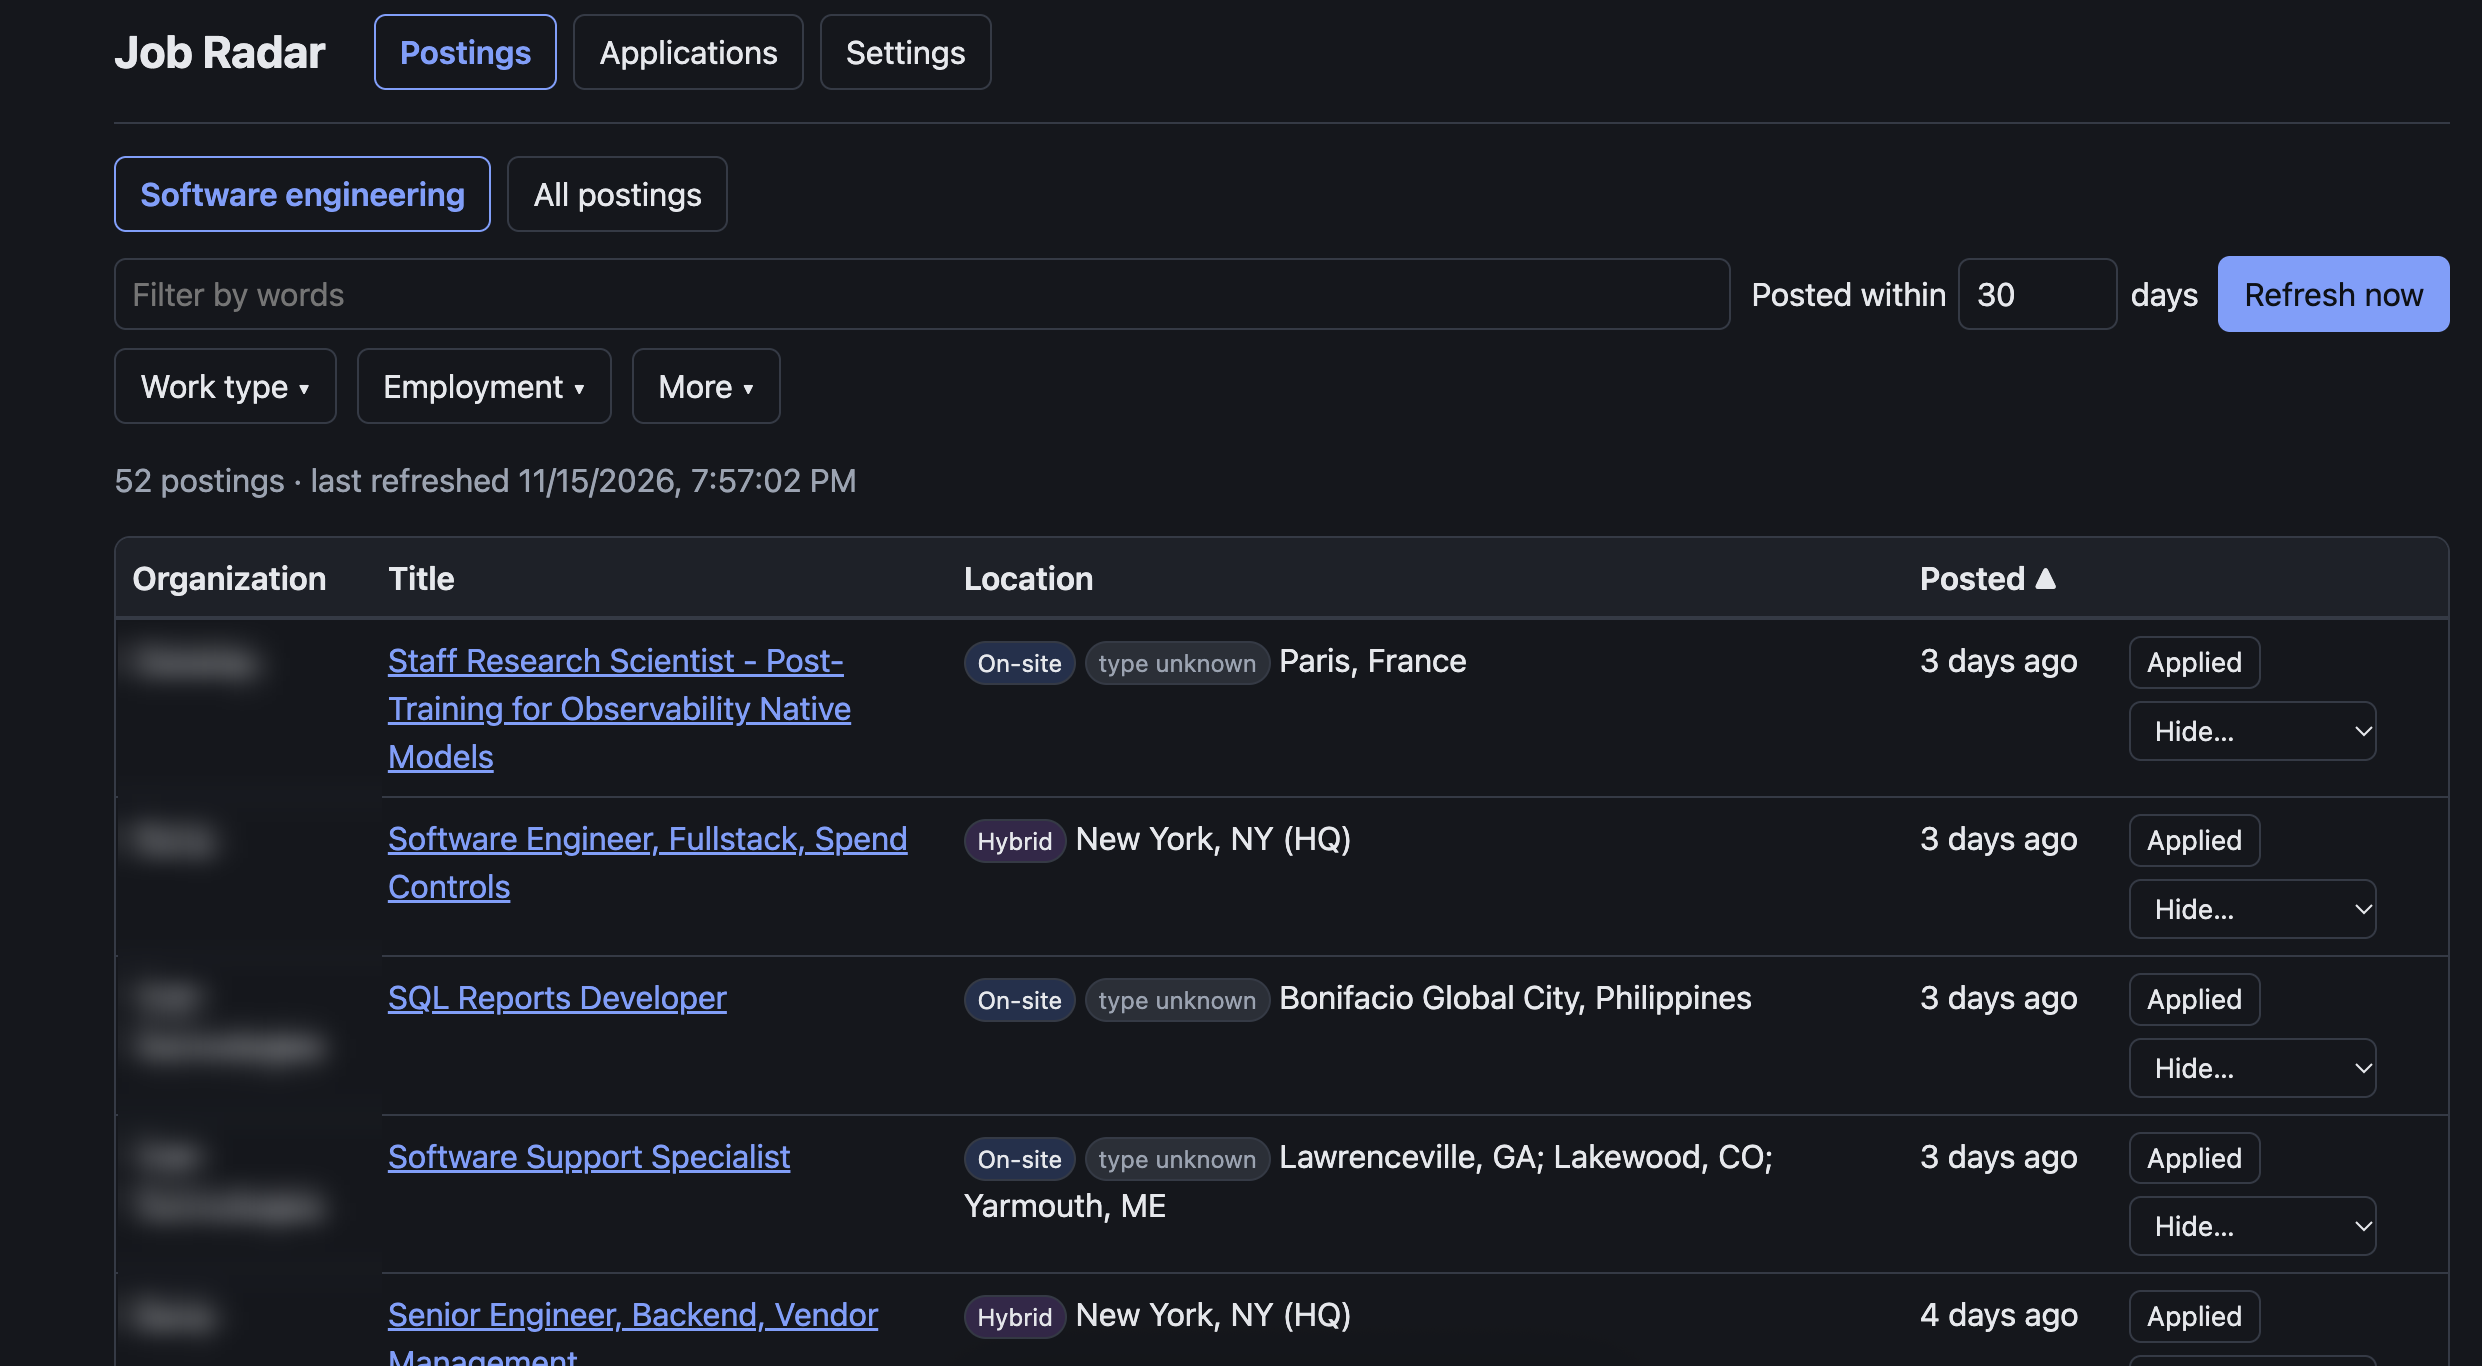
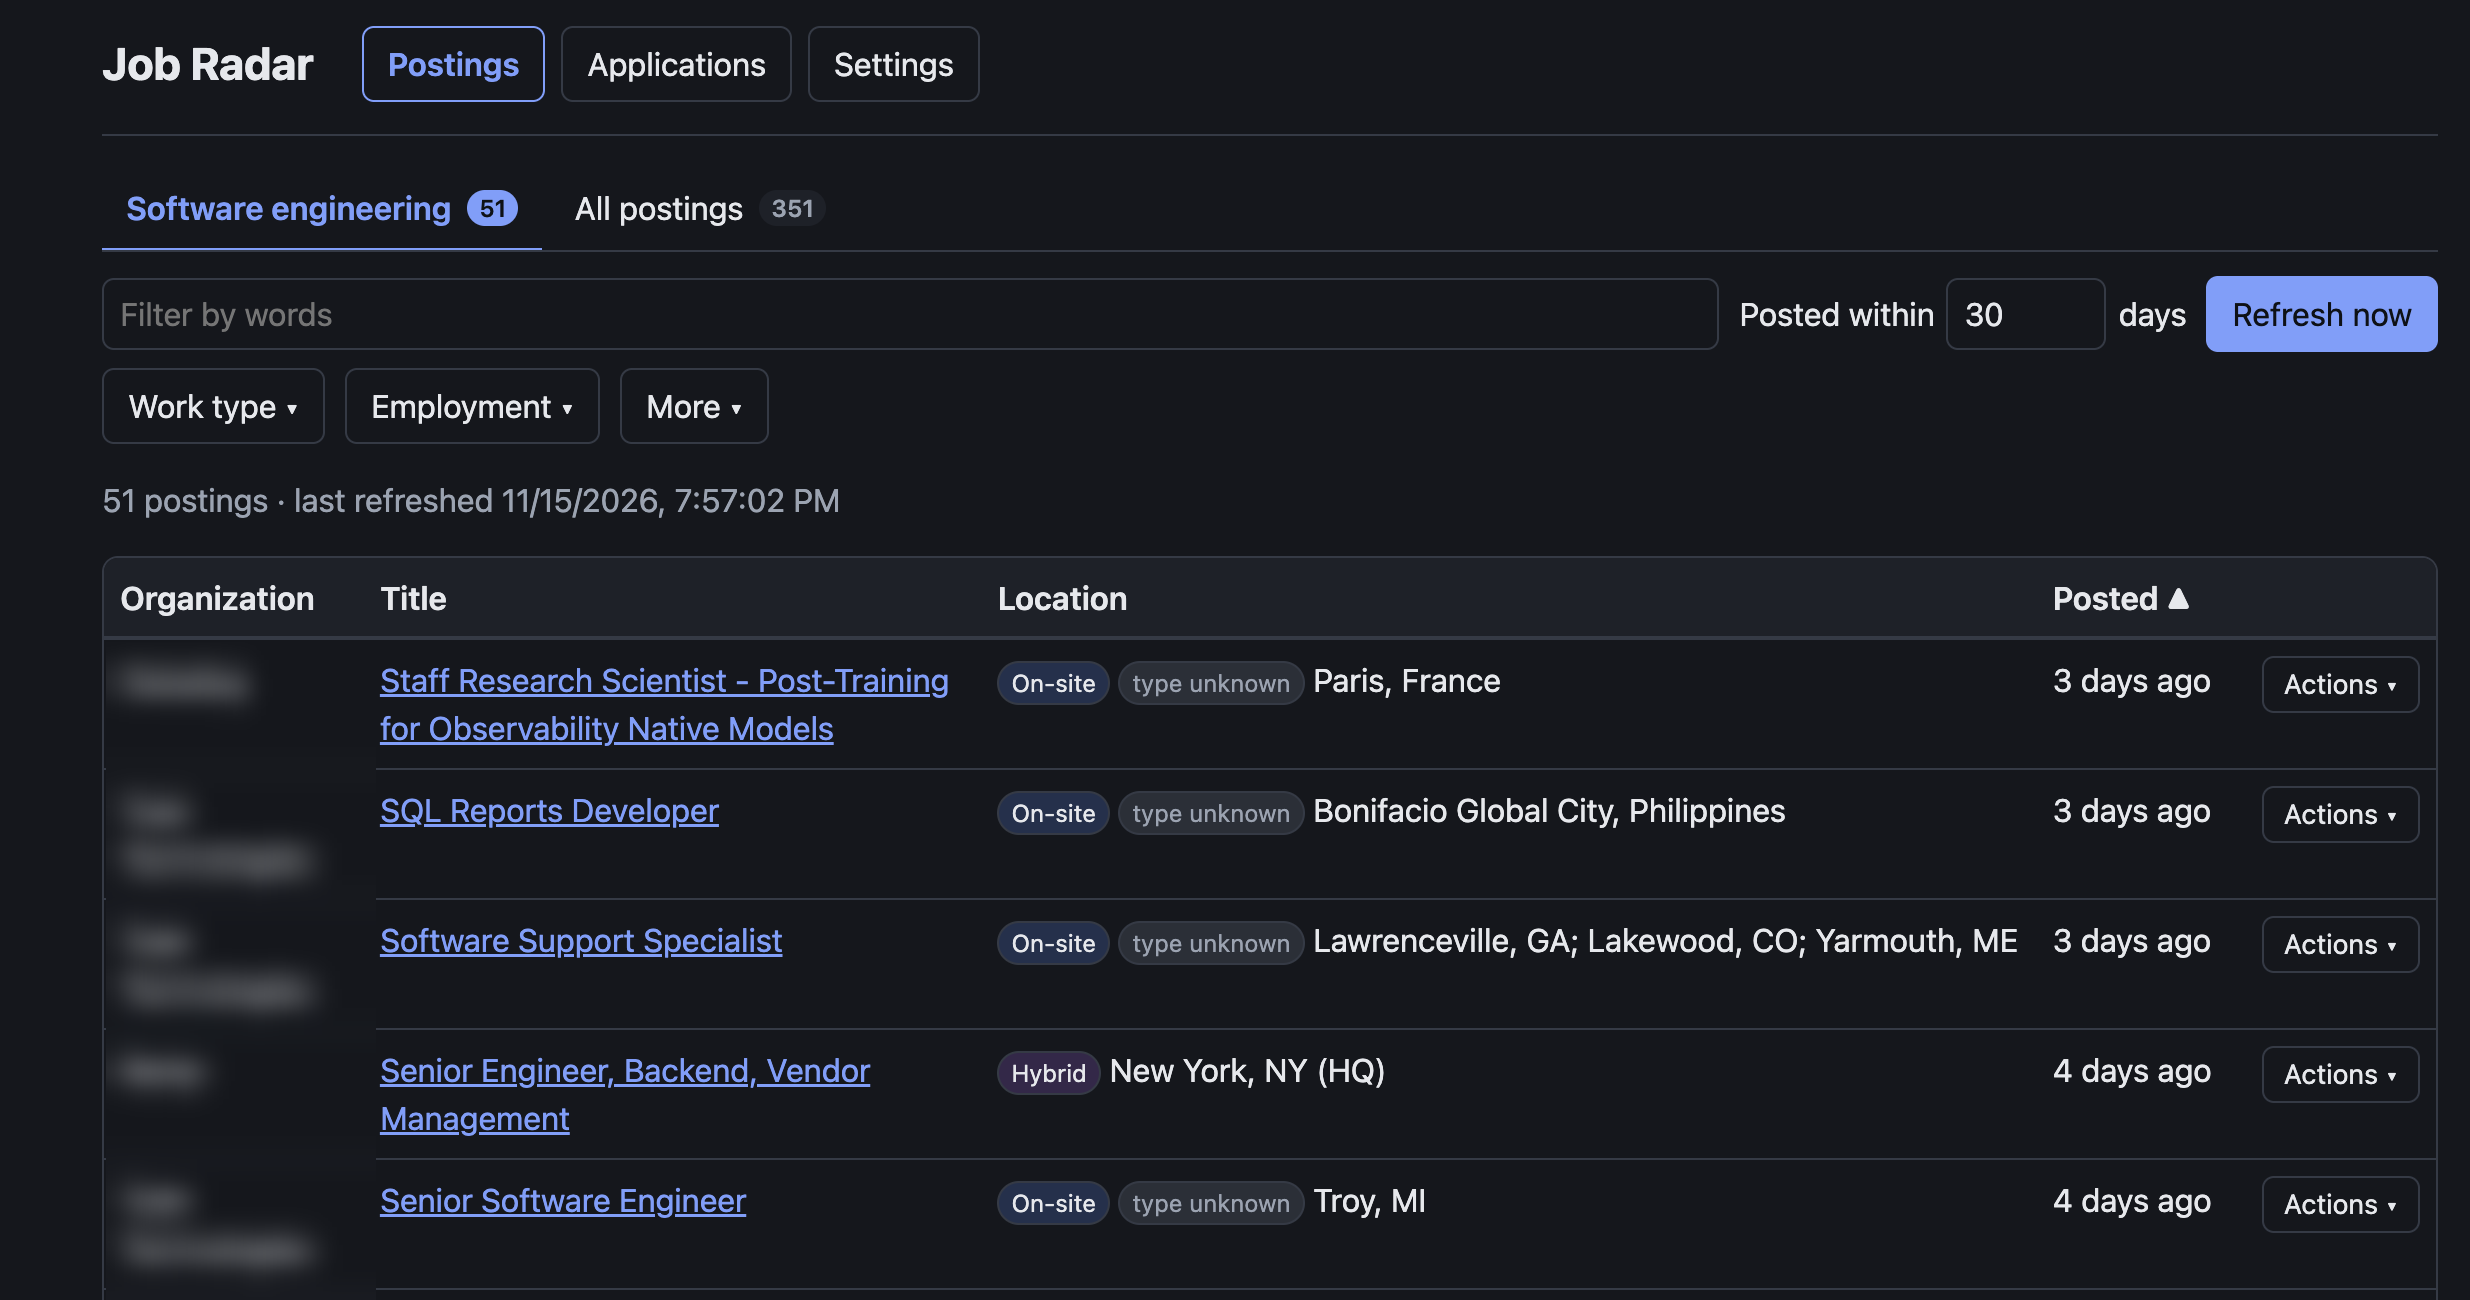
docs: new screenshot; README describes the polished UI
The owner's new screenshot from the demo stack (demo boards only), with
organization names blurred, replaces the earlier one. The feature list
mentions the profile tab counts, the filter bar and scrolling, and the
Actions menu.

Refs #5

diff --git a/README.md b/README.md
@@ -10,13 +10,18 @@ saved to offer.
 
 - **Your preferences, not hardcoded ones.** Job profiles hold the title terms
   you care about. Start from a preset (software engineering, biostatistics,
-  HEOR/real-world evidence) or write your own.
+  HEOR/real-world evidence) or write your own. Each profile is a tab with its
+  own posting count.
+- **Filters that stay out of the way.** Search by words, set the posting age,
+  and narrow by work type, employment type, local only, new only, or hide
+  senior roles. Long lists scroll in their own box with the headers in view.
 - **Location that understands remote.** List the states and cities you'd work
   in on site. Remote jobs count only when they're open across the US, or
   limited to a state you listed.
-- **Applications.** Mark a posting "Applied" or add a job you found elsewhere,
-  then move it through saved, applied, screening, interviewing, offer and the
-  rest, with a dated history and notes.
+- **Applications.** Use a posting's **Actions** menu to mark it applied, or
+  add a job you found elsewhere. Then move it through saved, applied,
+  screening, interviewing, offer and the rest, with a dated history and notes.
+  The same menu hides postings you don't want.
 - **Board health.** Settings shows each board's last few refreshes, so a board
   that stopped working is easy to spot.
 - **Polite by design.** It reads only public job-board feeds, identifies itself
